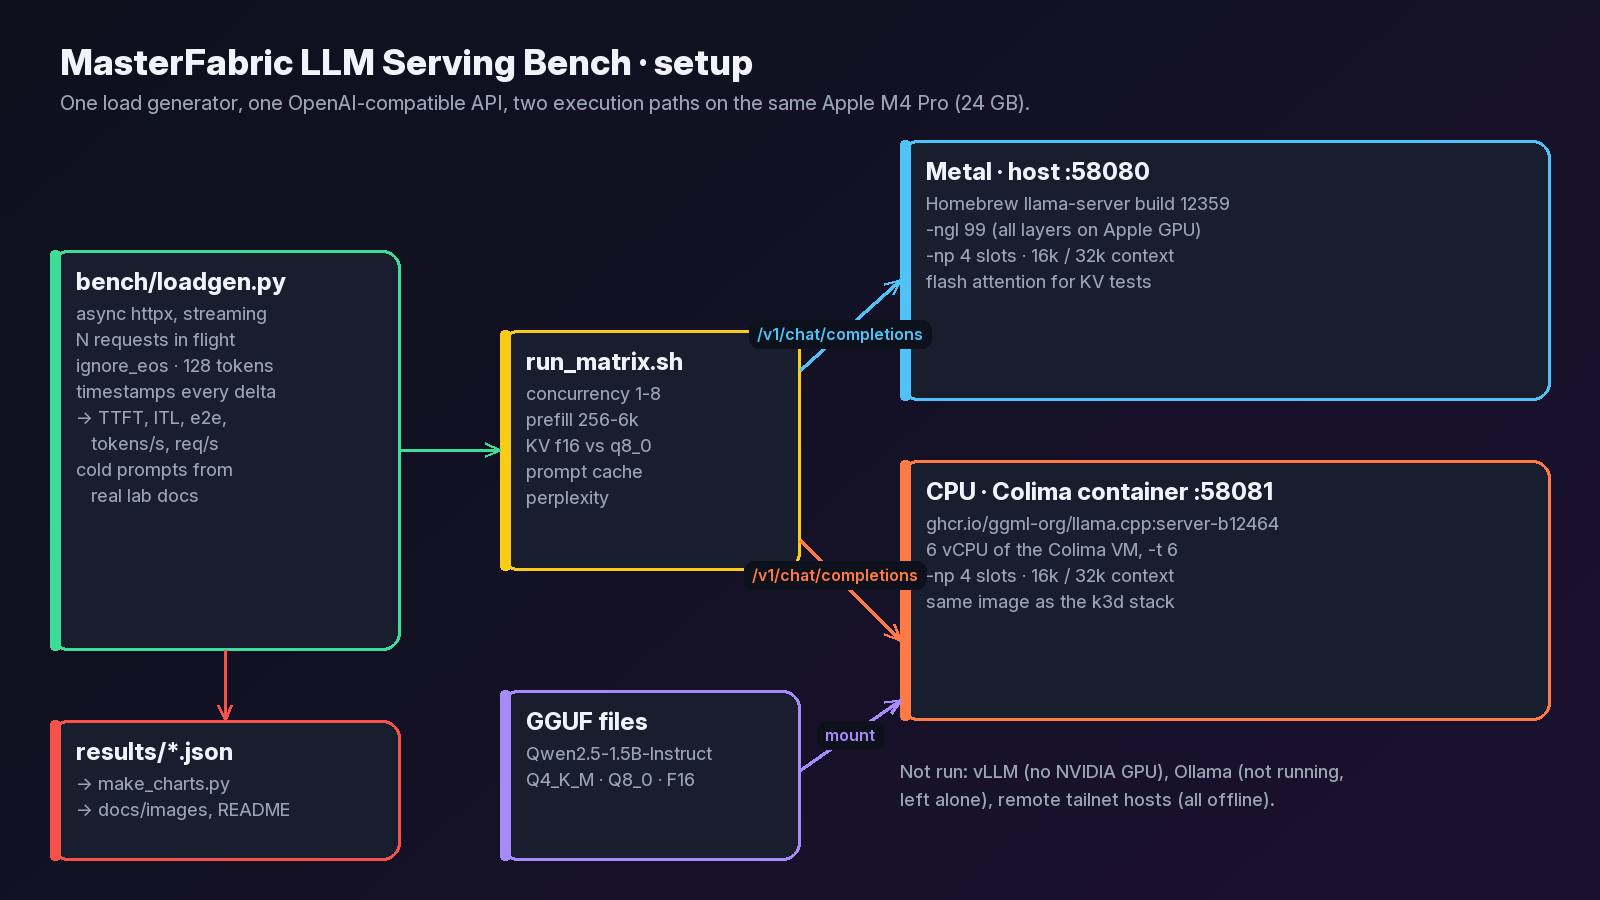
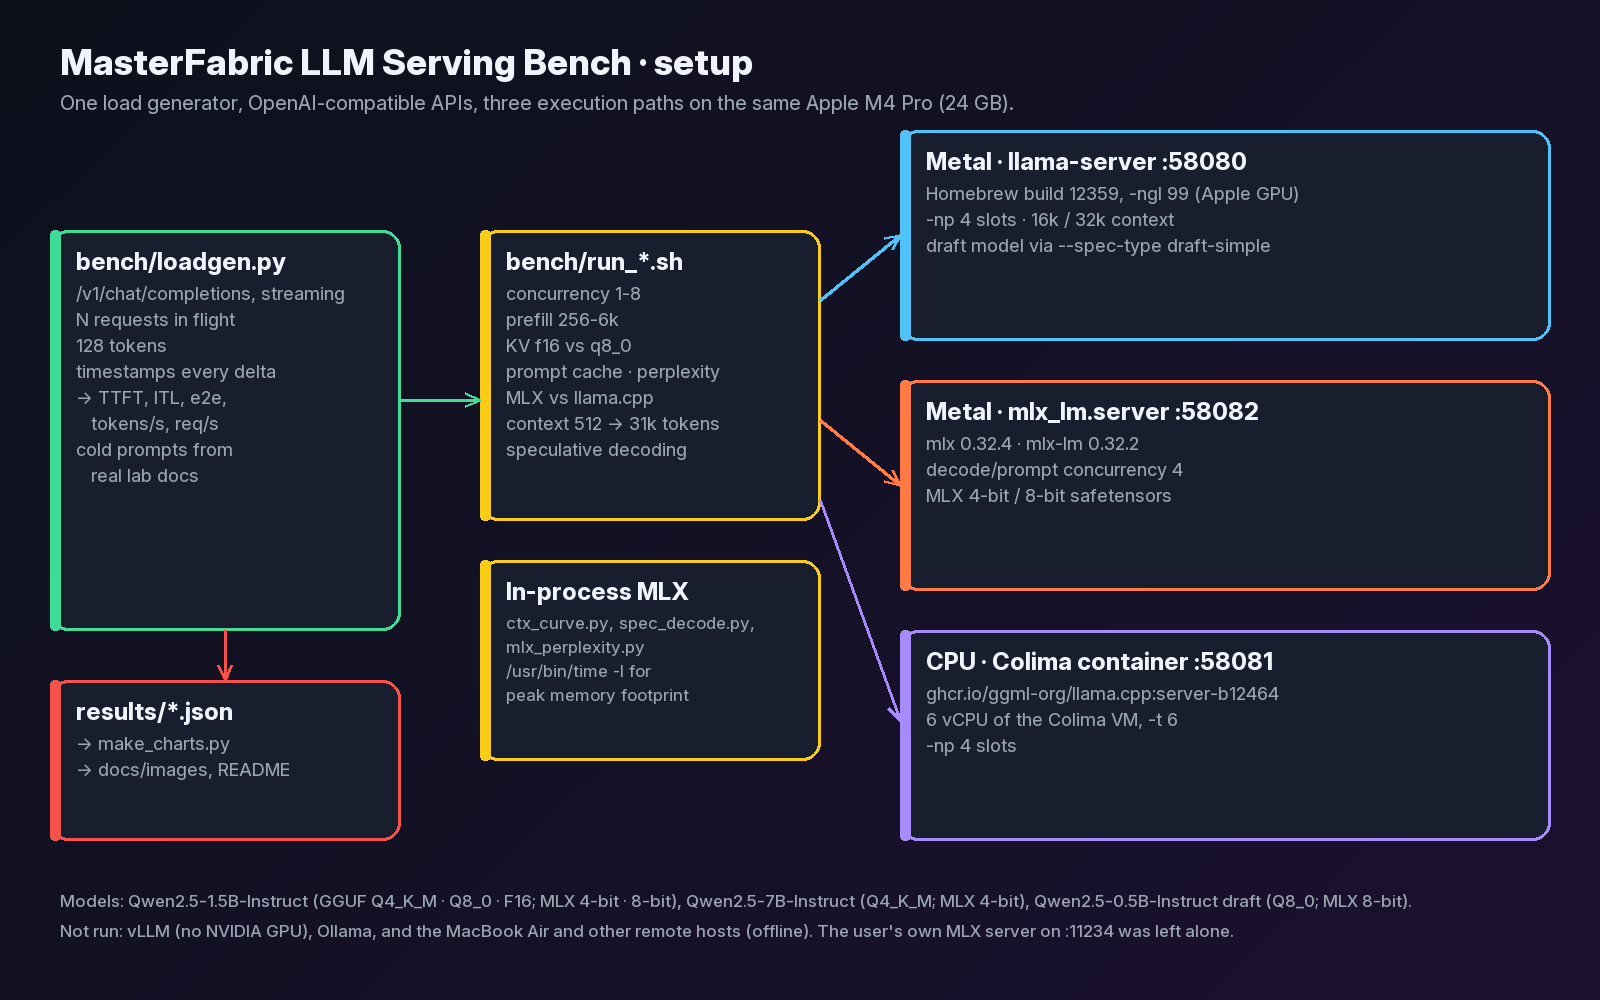
docs: setup diagram with the MLX server and in-process runs

diff --git a/bench/make_diagrams.py b/bench/make_diagrams.py
@@ -3,30 +3,38 @@ from mfviz import GREEN, GREY, ICE, IMG, ORANGE, PURPLE, RED, WHITE, YELLOW, arr
 
 
 def architecture():
-    im, d = canvas(1600, 900)
+    im, d = canvas(1600, 1000)
     d.text((60, 40), "MasterFabric LLM Serving Bench · setup", font=font(36, 800), fill=WHITE)
-    d.text((60, 90), "One load generator, one OpenAI-compatible API, two execution paths on the same Apple M4 Pro (24 GB).",
+    d.text((60, 90), "One load generator, OpenAI-compatible APIs, three execution paths on the same Apple M4 Pro (24 GB).",
            font=font(20, 450), fill=GREY)
-    box(d, (50, 250, 400, 650), "bench/loadgen.py", ["async httpx, streaming", "N requests in flight", "ignore_eos · 128 tokens",
+    box(d, (50, 230, 400, 630), "bench/loadgen.py", ["/v1/chat/completions, streaming", "N requests in flight", "128 tokens",
                                                      "timestamps every delta", "→ TTFT, ITL, e2e,", "   tokens/s, req/s",
                                                      "cold prompts from", "   real lab docs"], GREEN, line_size=18)
-    box(d, (500, 330, 800, 570), "run_matrix.sh", ["concurrency 1-8", "prefill 256-6k", "KV f16 vs q8_0",
-                                                   "prompt cache", "perplexity"], YELLOW, line_size=18)
-    box(d, (900, 140, 1550, 400), "Metal · host :58080", ["Homebrew llama-server build 12359", "-ngl 99 (all layers on Apple GPU)",
-                                                         "-np 4 slots · 16k / 32k context", "flash attention for KV tests"],
-        ICE, line_size=18)
-    box(d, (900, 460, 1550, 720), "CPU · Colima container :58081", ["ghcr.io/ggml-org/llama.cpp:server-b12464",
-                                                                     "6 vCPU of the Colima VM, -t 6", "-np 4 slots · 16k / 32k context",
-                                                                     "same image as the k3d stack"], ORANGE, line_size=18)
-    box(d, (500, 690, 800, 860), "GGUF files", ["Qwen2.5-1.5B-Instruct", "Q4_K_M · Q8_0 · F16"], PURPLE, line_size=18)
-    box(d, (50, 720, 400, 860), "results/*.json", ["→ make_charts.py", "→ docs/images, README"], RED, line_size=18)
-    arrow(d, (400, 450), (500, 450), GREEN)
-    arrow(d, (800, 370), (900, 280), ICE, "/v1/chat/completions", at=0.4)
-    arrow(d, (800, 540), (900, 640), ORANGE, "/v1/chat/completions", at=0.35)
-    arrow(d, (800, 770), (900, 700), PURPLE, "mount")
-    arrow(d, (225, 650), (225, 720), RED)
-    d.text((900, 760), "Not run: vLLM (no NVIDIA GPU), Ollama (not running,", font=font(18, 500), fill=GREY)
-    d.text((900, 788), "left alone), remote tailnet hosts (all offline).", font=font(18, 500), fill=GREY)
+    box(d, (480, 230, 820, 520), "bench/run_*.sh", ["concurrency 1-8", "prefill 256-6k", "KV f16 vs q8_0",
+                                                               "prompt cache · perplexity", "MLX vs llama.cpp",
+                                                               "context 512 → 31k tokens", "speculative decoding"],
+        YELLOW, line_size=18)
+    box(d, (480, 560, 820, 760), "In-process MLX", ["ctx_curve.py, spec_decode.py,", "mlx_perplexity.py",
+                                                    "/usr/bin/time -l for", "peak memory footprint"], YELLOW, line_size=17)
+    box(d, (900, 130, 1550, 340), "Metal · llama-server :58080", ["Homebrew build 12359, -ngl 99 (Apple GPU)",
+                                                                  "-np 4 slots · 16k / 32k context",
+                                                                  "draft model via --spec-type draft-simple"], ICE, line_size=18)
+    box(d, (900, 380, 1550, 590), "Metal · mlx_lm.server :58082", ["mlx 0.32.4 · mlx-lm 0.32.2",
+                                                                   "decode/prompt concurrency 4",
+                                                                   "MLX 4-bit / 8-bit safetensors"], ORANGE, line_size=18)
+    box(d, (900, 630, 1550, 840), "CPU · Colima container :58081", ["ghcr.io/ggml-org/llama.cpp:server-b12464",
+                                                                     "6 vCPU of the Colima VM, -t 6", "-np 4 slots"],
+        PURPLE, line_size=18)
+    box(d, (50, 680, 400, 840), "results/*.json", ["→ make_charts.py", "→ docs/images, README"], RED, line_size=18)
+    arrow(d, (400, 400), (480, 400), GREEN)
+    arrow(d, (820, 300), (900, 235), ICE)
+    arrow(d, (820, 420), (900, 485), ORANGE)
+    arrow(d, (820, 500), (900, 720), PURPLE)
+    arrow(d, (225, 630), (225, 680), RED)
+    d.text((60, 890), "Models: Qwen2.5-1.5B-Instruct (GGUF Q4_K_M · Q8_0 · F16; MLX 4-bit · 8-bit), Qwen2.5-7B-Instruct "
+           "(Q4_K_M; MLX 4-bit), Qwen2.5-0.5B-Instruct draft (Q8_0; MLX 8-bit).", font=font(17, 500), fill=GREY)
+    d.text((60, 920), "Not run: vLLM (no NVIDIA GPU), Ollama, and the MacBook Air and other remote hosts (offline). "
+           "The user's own MLX server on :11234 was left alone.", font=font(17, 500), fill=GREY)
     im.save(IMG / "architecture.png", optimize=True)
 
 
